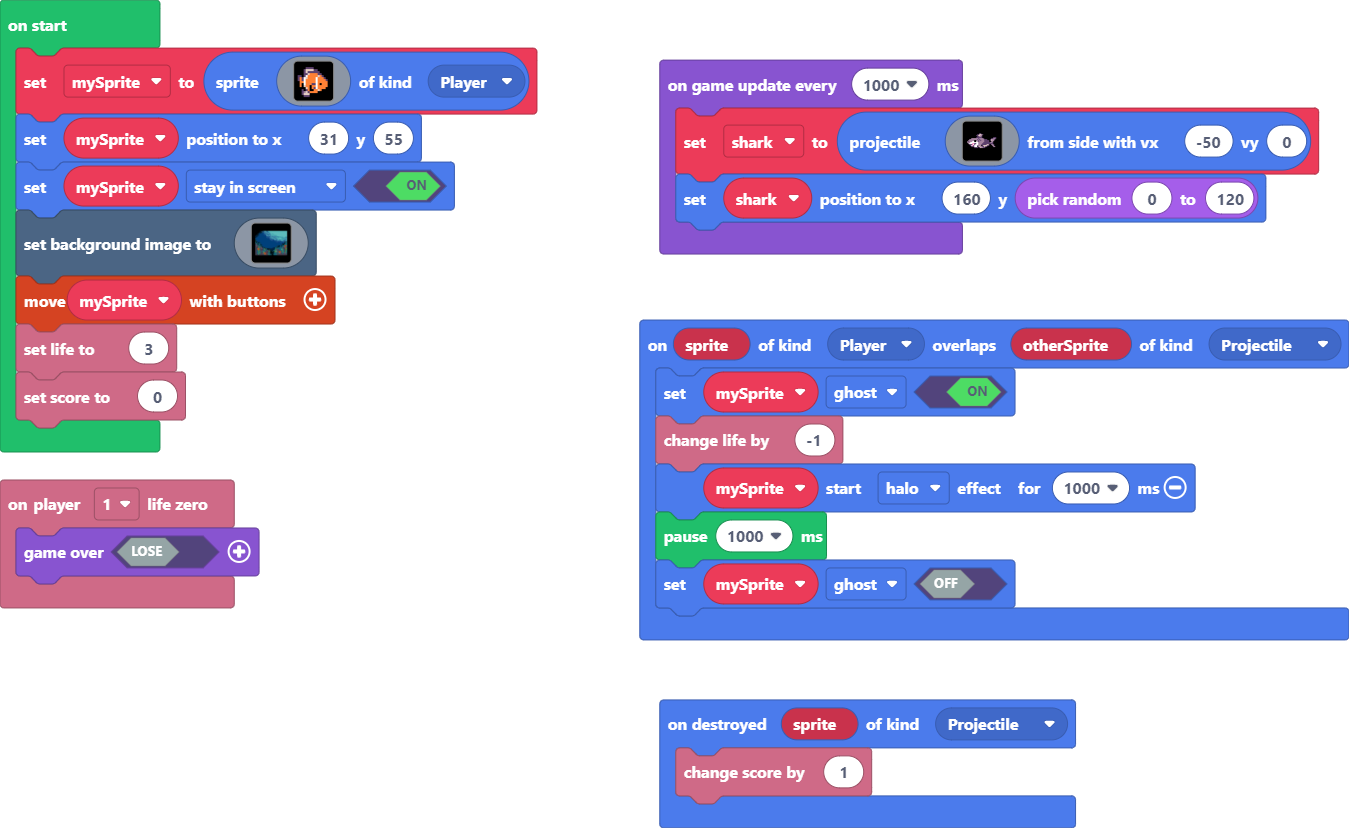
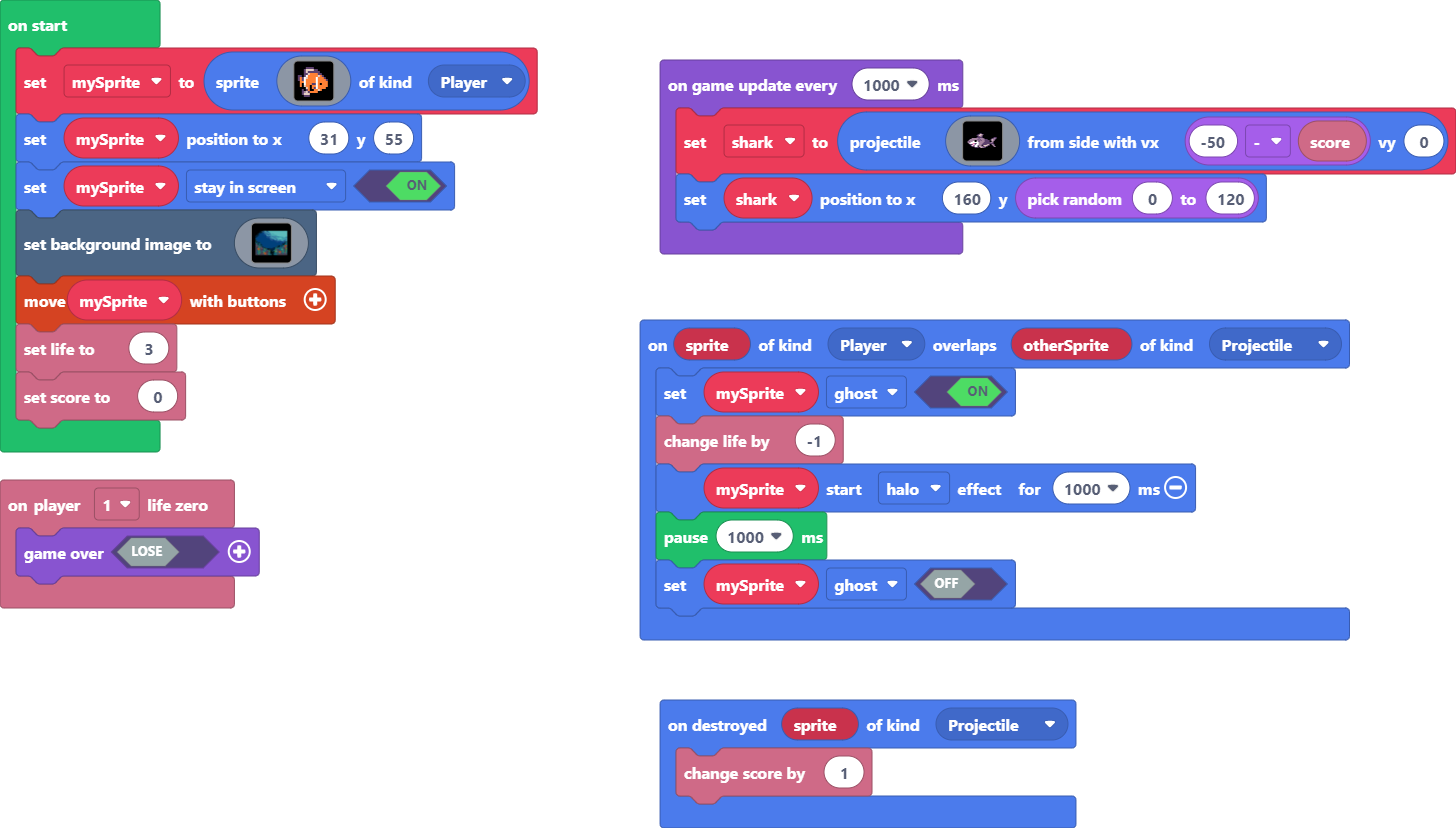
Update main.blocks, main.ts

diff --git a/main.ts b/main.ts
@@ -176,6 +176,6 @@ game.onUpdateInterval(1000, function () {
         ....fccc111fbdbbccdcc.....fbbf..
         ........ccccfcdbbcc........fff..
         .............fffff..............
-        `, -50, 0)
+        `, -50 - info.score(), 0)
     shark.setPosition(160, randint(0, 120))
 })
